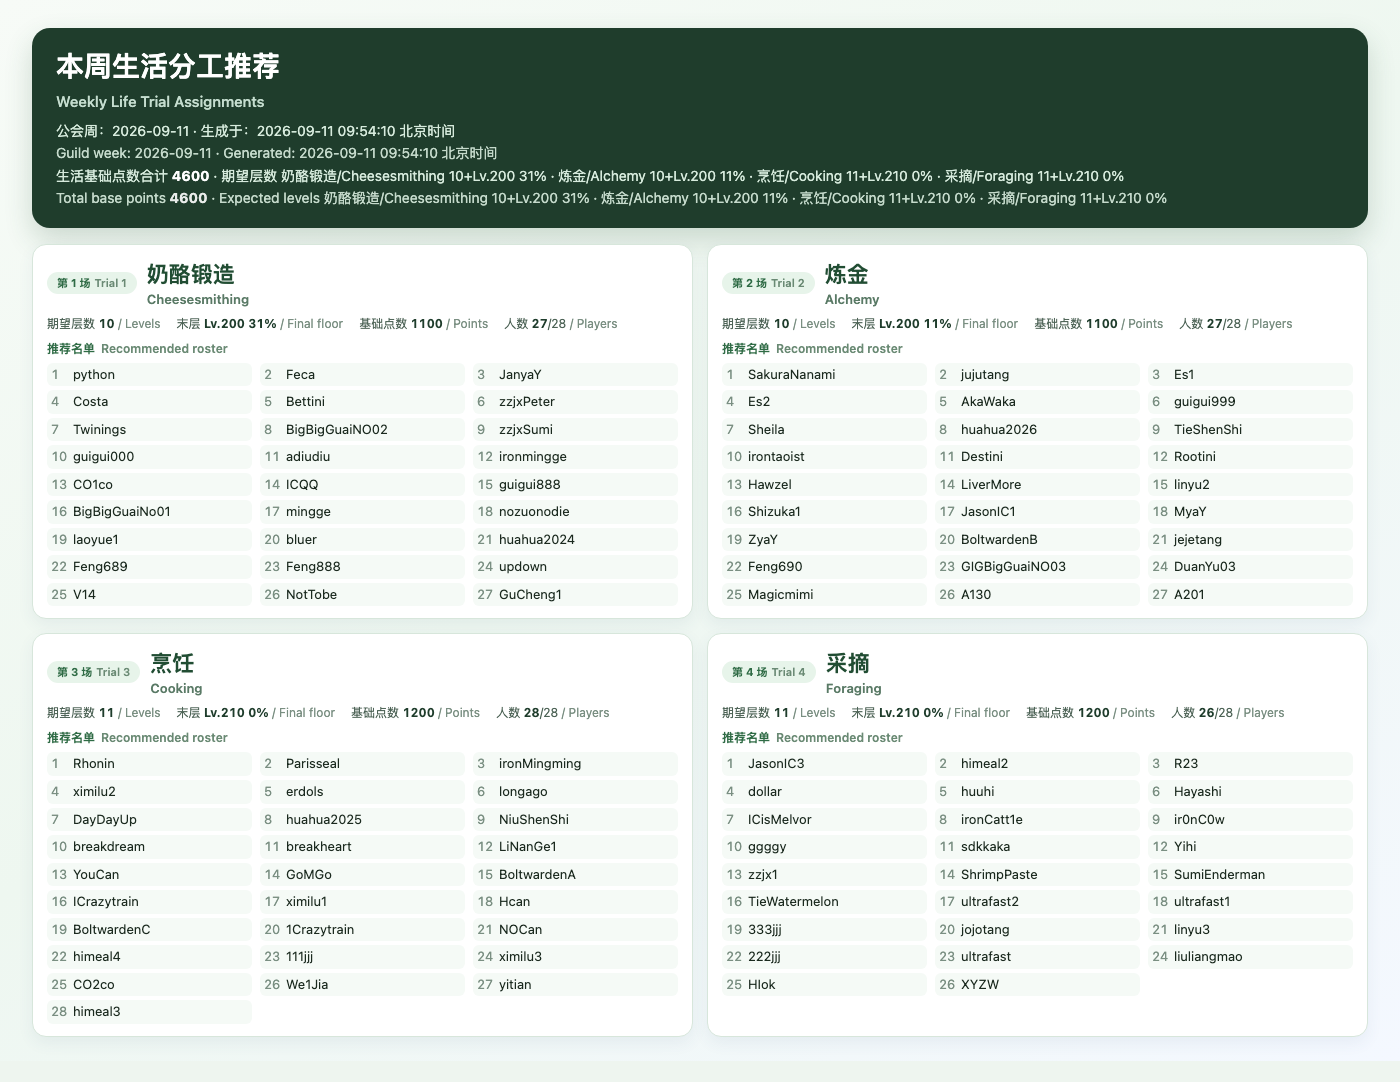
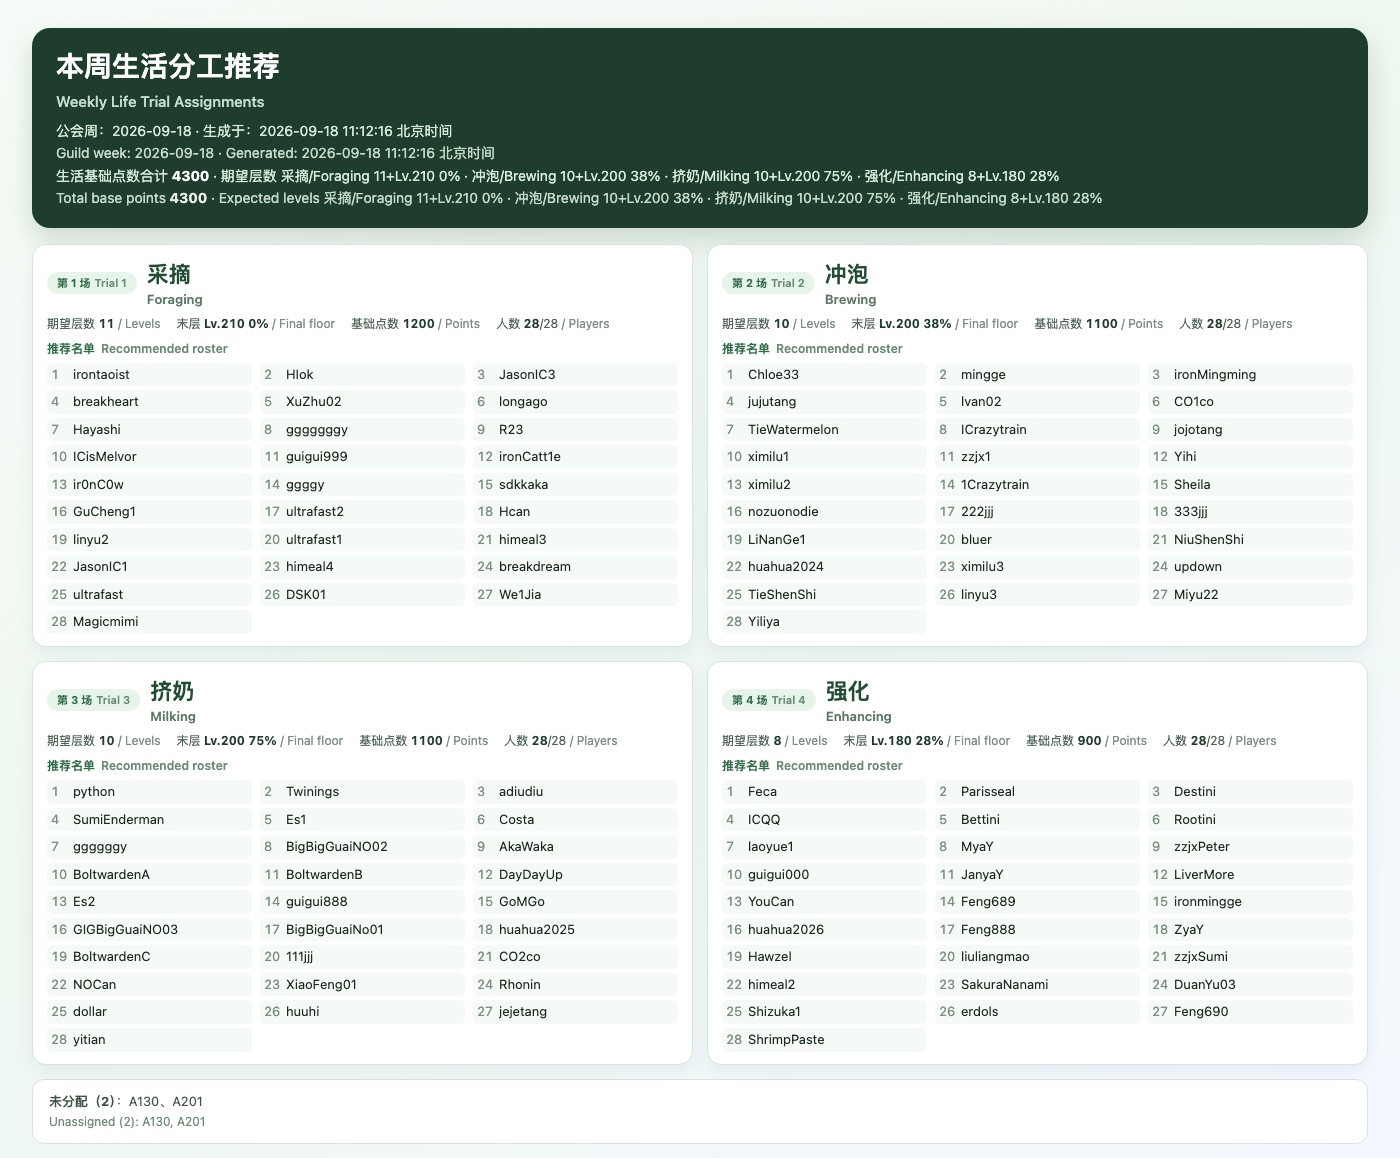
chore: refresh life assignment report (2026-09-18T00:00:00.000Z, 4300 pts)

Changed region(s): [[0.0, 0.0305, 0.9829, 0.976]]

diff --git a/reports/WI/combat-assignment/index.html b/reports/WI/combat-assignment/index.html
@@ -132,7 +132,7 @@
     <div class="header-text">
       <h1><span class="i18n" data-zh="本周分工" data-en="Weekly Assignments">本周分工</span></h1>
       <div class="meta">
-        <span class="i18n" data-zh="战斗方案：" data-en="Combat plan: ">战斗方案：</span>2026-09-18 11:04:44 北京时间
+        <span class="i18n" data-zh="战斗方案：" data-en="Combat plan: ">战斗方案：</span>2026-09-18 11:12:16 北京时间
         <span class="i18n" data-zh=" · 点选下方条目浏览生活/战斗图片" data-en=" · Pick a tab to browse life/combat images"> · 点选下方条目浏览生活/战斗图片</span>
       </div>
     </div>
@@ -141,26 +141,13 @@
       <button type="button" class="lang-btn" data-lang="en">English</button>
     </div>
   </header>
-  <pre class="summary" id="summaryBlock">WI 可用人员重排组合搜索（不按报名，开发实验不可转正）
-可用 94 人；不可用 18 人；最优分区：gun-hedgehog-aoe-swarm-stheal10
-规则：枪去刺猬；锤/弩/剑/弓/火/水去虫群（溢出按火→剑→弩→弓→锤填刺猬）；刺猬留定额自当奶，溢出自去虫群当奶；两边各留至少2个必要覆盖（烟爆/法力喷泉/冰霜爆裂/粉尘/疫病/破甲/碎裂/致残/血刃）；自然奶按武器强化/魔法改输出 x（hedgehog=0，swarm=0），输出技能元素增幅/粉尘/菌幕/缠绕，剩余自然仍群疗；非光环默认复活、前x输出改疯狂（hedgehog=24，swarm=36）；攻击≥110；双 Boss 人员互斥；无复制人。
-【试炼刺猬】38人；3次 7–7 层；DPS≈1550；末层平均17.2%；死亡 66–101；前24输出疯狂
-技能包：st-ranged-pestilent-firestorm
-职业：弓3 弩14 水1 自10 盾2 枪2 剑3 锤3
-职责：坦克2 奶10 减9 输出17
-名单：ggggy(弓)、jojotang(弓)、ShrimpPaste(弓)、CO2co(弩)、ir0nC0w(弩)、NiuShenShi(弩)、ultrafast2(弩)、TieWatermelon(弩)、TieShenShi(弩)、Yihi(弩)、R23(弩)、Rootini(弩)、NOCan(弩)、longago(弩)、zzjx1(弩)、mingge(弩)、ximilu1(弩)、Miyu22(水)、linyu2(自)、sdkkaka(自)、Destini(自)、erdols(自)、LiNanGe1(自)、1Crazytrain(自)、Hayashi(自)、Hcan(自)、ximilu2(自)、YouCan(自)、AkaWaka(盾)、himeal3(盾)、CO1co(枪)、DayDayUp(枪)、huahua2025(剑)、laoyue1(剑)、ximilu3(剑)、JasonIC1(锤)、yitian(锤)、zzjxSumi(锤)
-【试炼虫群】48人（每层4只）；3次 8–8 层；DPS≈4291；末层平均52.5%；死亡 0–1；前36输出疯狂
-技能包：aoe-precision-rain-smoke2
-职业：弓1 弩11 水2 自6 盾2 枪1 剑4 锤21
-职责：坦克2 奶6 减9 输出31
-名单：333jjj(弓)、BoltwardenA(弩)、BoltwardenB(弩)、BoltwardenC(弩)、guigui000(弩)、guigui888(弩)、guigui999(弩)、Hawzel(弩)、himeal2(弩)、ICQQ(弩)、ironCatt1e(弩)、linyu3(弩)、ICrazytrain(水)、ironMingming(水)、222jjj(自)、breakdream(自)、breakheart(自)、ggggggy(自)、himeal4(自)、ICisMelvor(自)、Shizuka1(盾)、ultrafast1(盾)、Bettini(枪)、adiudiu(剑)、GoMGo(剑)、nozuonodie(剑)、SumiEnderman(剑)、111jjj(锤)、BigBigGuaiNo01(锤)、BigBigGuaiNO02(锤)、bluer(锤)、DuanYu03(锤)、Feca(锤)、GIGBigGuaiNO03(锤)、GuCheng1(锤)、HIok(锤)、huahua2024(锤)、huahua2026(锤)、huuhi(锤)、ironmingge(锤)、JasonIC3(锤)、jejetang(锤)、lvan02(锤)、Rhonin(锤)、SakuraNanami(锤)、ultrafast(锤)、updown(锤)、zzjxPeter(锤)
-全库不可用：Feng689/锤(近战等级不足（121&lt;125）)、Feng690/弩(缺少T95或精炼★T95武器)、dollar/剑(缺少T95或精炼★T95武器)、Chloe33/剑(近战等级不足（117&lt;125）)、Costa/火(缺少T95或精炼★T95武器)、Twinings/火(缺少T95或精炼★T95武器)、python/火(缺少T95或精炼★T95武器)、A130/自(魔法等级不足（124&lt;125）)、A201/弩(远程等级不足（122&lt;125）)、DSK01/弩(攻击等级不足（97&lt;110）)、JanyaY/弩(远程等级不足（118&lt;125）)、MyaY/弩(缺少T95或精炼★T95武器)、ZyaY/弩(缺少T95或精炼★T95武器)、irontaoist/锤(缺少T95或精炼★T95武器)、Magicmimi/自(魔法等级不足（123&lt;125）)、XuZhu02/盾(盾超额（防御130较低，每边只带2盾）)、gggggggy/盾(盾超额（防御129较低，每边只带2盾）)、Feng888/盾(盾超额（防御126较低，每边只带2盾）)</pre>
+  
   <nav class="tabs" aria-label="Weekly assignment images">
       <button type="button" class="tab active" data-index="0" data-src-zh="../life-assignment/latest.png" data-src-en="../life-assignment/latest.png" data-label-zh="生活分工" data-label-en="Life Trials"><span class="i18n" data-zh="生活分工" data-en="Life Trials">生活分工</span></button>
-      <button type="button" class="tab" data-index="1" data-src-zh="1-hedgehog-summary.png" data-src-en="1-hedgehog-summary.en.png" data-label-zh="刺猬 · 阵容与技能" data-label-en="Trial Hedgehog · Roster &amp; Skills"><span class="i18n" data-zh="刺猬 · 阵容与技能" data-en="Trial Hedgehog · Roster &amp; Skills">刺猬 · 阵容与技能</span></button>
-      <button type="button" class="tab" data-index="2" data-src-zh="1-hedgehog-members.png" data-src-en="1-hedgehog-members.en.png" data-label-zh="刺猬 · 成员明细" data-label-en="Trial Hedgehog · 38 Member Breakdown"><span class="i18n" data-zh="刺猬 · 成员明细" data-en="Trial Hedgehog · 38 Member Breakdown">刺猬 · 成员明细</span></button>
-      <button type="button" class="tab" data-index="3" data-src-zh="2-swarm-summary.png" data-src-en="2-swarm-summary.en.png" data-label-zh="虫群 · 阵容与技能" data-label-en="Trial Swarm · Roster &amp; Skills"><span class="i18n" data-zh="虫群 · 阵容与技能" data-en="Trial Swarm · Roster &amp; Skills">虫群 · 阵容与技能</span></button>
-      <button type="button" class="tab" data-index="4" data-src-zh="2-swarm-members.png" data-src-en="2-swarm-members.en.png" data-label-zh="虫群 · 成员明细" data-label-en="Trial Swarm · 48 Member Breakdown"><span class="i18n" data-zh="虫群 · 成员明细" data-en="Trial Swarm · 48 Member Breakdown">虫群 · 成员明细</span></button>
+      <button type="button" class="tab" data-index="1" data-src-zh="1-hedgehog-summary.png" data-src-en="1-hedgehog-summary.en.png" data-label-zh="刺猬 · 阵容与技能" data-label-en="Hedgehog · Roster &amp; Skills"><span class="i18n" data-zh="刺猬 · 阵容与技能" data-en="Hedgehog · Roster &amp; Skills">刺猬 · 阵容与技能</span></button>
+      <button type="button" class="tab" data-index="2" data-src-zh="1-hedgehog-members.png" data-src-en="1-hedgehog-members.en.png" data-label-zh="刺猬 · 成员明细" data-label-en="Hedgehog · Members"><span class="i18n" data-zh="刺猬 · 成员明细" data-en="Hedgehog · Members">刺猬 · 成员明细</span></button>
+      <button type="button" class="tab" data-index="3" data-src-zh="2-swarm-summary.png" data-src-en="2-swarm-summary.en.png" data-label-zh="虫群 · 阵容与技能" data-label-en="Swarm · Roster &amp; Skills"><span class="i18n" data-zh="虫群 · 阵容与技能" data-en="Swarm · Roster &amp; Skills">虫群 · 阵容与技能</span></button>
+      <button type="button" class="tab" data-index="4" data-src-zh="2-swarm-members.png" data-src-en="2-swarm-members.en.png" data-label-zh="虫群 · 成员明细" data-label-en="Swarm · Members"><span class="i18n" data-zh="虫群 · 成员明细" data-en="Swarm · Members">虫群 · 成员明细</span></button>
   </nav>
   <main>
     <p class="caption" id="caption"></p>

diff --git a/reports/WI/life-assignment/README.md b/reports/WI/life-assignment/README.md
@@ -1,8 +1,8 @@
 # 本周生活分工
 
-- 公会周：`2026-09-11T00:00:00.000Z`
-- 生成时间：`2026-09-11T01:54:10.857Z`
-- 基础点数合计：`4600`
+- 公会周：`2026-09-18T00:00:00.000Z`
+- 生成时间：`2026-09-18T03:12:16.250Z`
+- 基础点数合计：`4300`
 
 图片：https://raw.githubusercontent.com/xiahuaaaa/mwi-guild-trial-helper/main/reports/WI/life-assignment/latest.png
 JSON：https://raw.githubusercontent.com/xiahuaaaa/mwi-guild-trial-helper/main/reports/WI/life-assignment/latest.json
